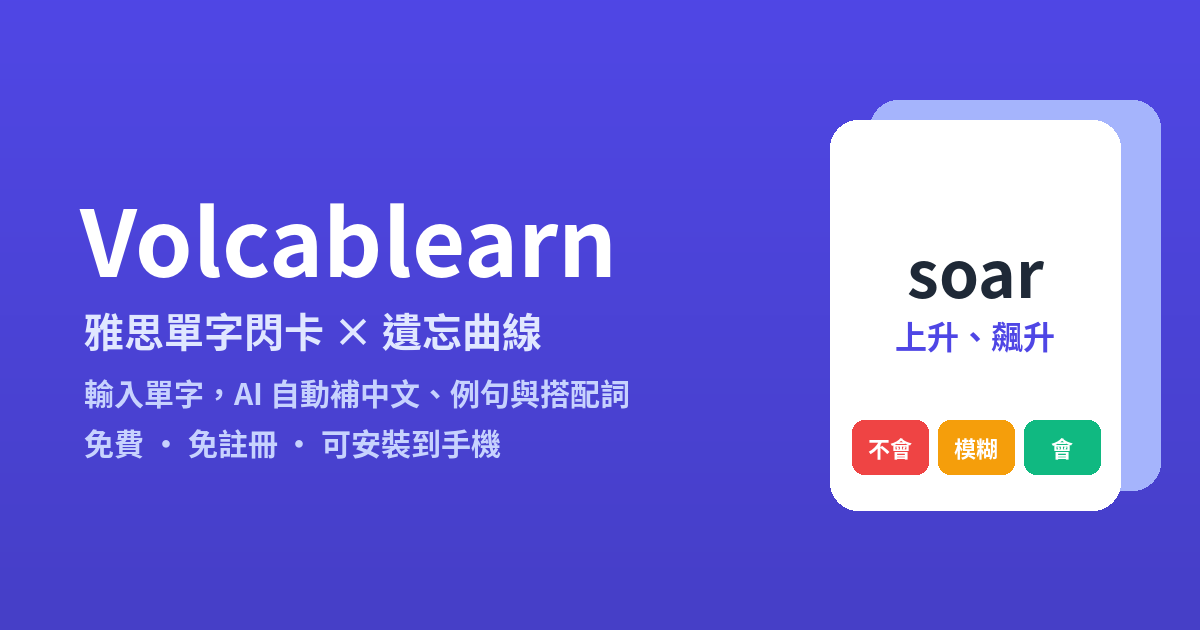
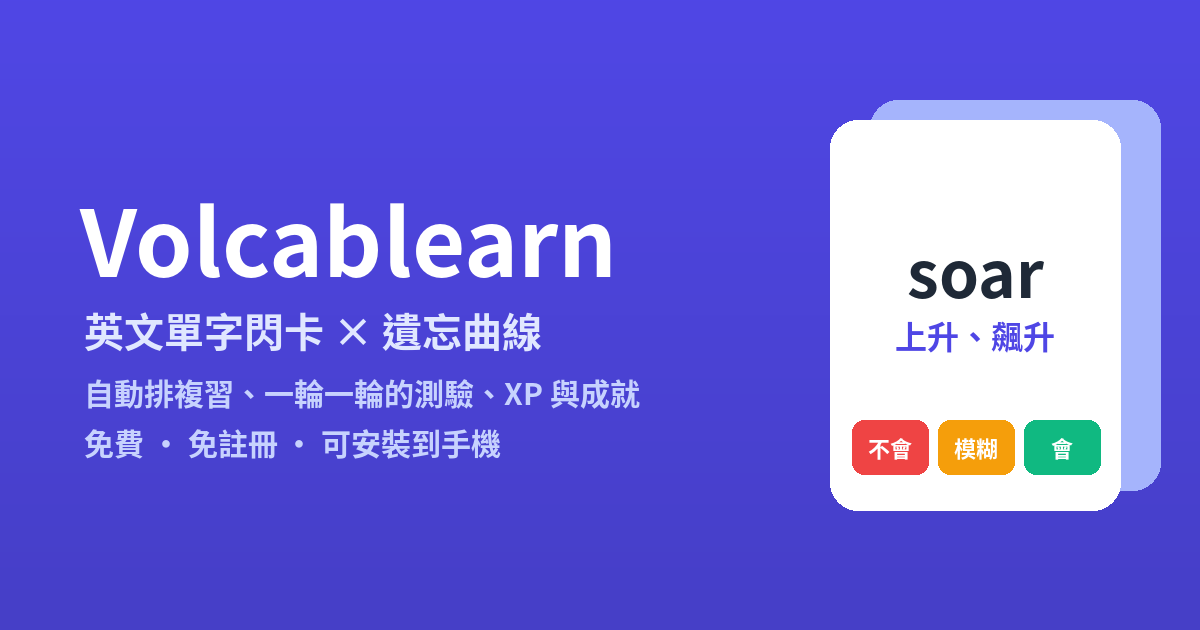
Rebrand as a general English vocabulary site
Remove IELTS-specific wording from the page, AI prompt, README,
manifest, share tags and preview image.

Claude-Session: https://claude.ai/code/session_01VhTT27U31Cj2sGtNm1B8yi

Changed region(s): [[0.0617, 0.6032, 0.555, 0.6635], [0.0617, 0.4825, 0.1542, 0.573]]

diff --git a/app.js b/app.js
@@ -179,7 +179,7 @@ function makeQ(type,w){
     if(q.sub==="syn"){
       q.answers=w.syn.flatMap(alts);
       q.also=words().filter(x=>x.grp&&x.grp===w.grp&&x.w!==w.w).map(x=>x.w);
-      q.html=`<p><span class="pill">同義字</span></p><p class="q"><span class="b">${esc(w.w)}</span> <span class="mute">(${esc(w.pos)})</span> ${esc(w.m)}</p><p class="q">寫出一個 C1+ 同義字${pending(w)}</p>`+inputLine("→ ");
+      q.html=`<p><span class="pill">同義字</span></p><p class="q"><span class="b">${esc(w.w)}</span> <span class="mute">(${esc(w.pos)})</span> ${esc(w.m)}</p><p class="q">寫出一個同義字${pending(w)}</p>`+inputLine("→ ");
       q.after=`<p class="q">可接受：${w.syn.map(s=>esc(alts(s).join(" / "))).join("、")}</p>`;
     }else if(q.sub==="der"){
       const d=pick(w.der);q.answers=[d[0]];
@@ -733,9 +733,9 @@ async function callAI(prompt){
 }
 function buildPrompt(list){
   const topics=[...new Set(words().map(w=>w.topic))];
-  return `你是幫台灣學生製作雅思（IELTS）單字閃卡的助手。請為下列每個英文單字或片語各產生一筆資料，只輸出一個 JSON 陣列，不要輸出其他文字或 Markdown。
+  return `你是幫台灣學生製作英文單字閃卡的助手。請為下列每個英文單字或片語各產生一筆資料，只輸出一個 JSON 陣列，不要輸出其他文字或 Markdown。
 每筆格式：
-{"input":"使用者輸入的原字","w":"英文原形，小寫；片語保留空格；若明顯拼錯請改正","pos":"n、v、adj、adv、ph、prefix 其中之一","m":"繁體中文主要意思，以雅思寫作與圖表報告語境為主，12 字以內","alt":"其他常見意思（繁體中文），沒有就空字串","syn":["1 到 2 個 C1 以上程度的英文同義字"],"der":[["派生字","詞性","繁體中文"]],"col":[["常見搭配詞，目標字用大括號包起來並寫出實際詞形，例如 {exceed} expectations","繁體中文"]],"ex":"一句 C1 程度、雅思報告風格的英文例句，目標字只出現一次並用大括號包起來，寫出實際詞形，例如 House prices {soared} in 2021.","topic":"從這些主題選一個：${topics.join("、")}；都不適合就自訂 2 到 4 字的繁體中文主題","note":"如果輸入不是英文單字或可能拼錯，用繁體中文簡短說明；否則空字串"}
+{"input":"使用者輸入的原字","w":"英文原形，小寫；片語保留空格；若明顯拼錯請改正","pos":"n、v、adj、adv、ph、prefix 其中之一","m":"繁體中文主要意思，選最常用的意思，12 字以內","alt":"其他常見意思（繁體中文），沒有就空字串","syn":["1 到 2 個英文同義字，優先選比原字更進階的"],"der":[["派生字","詞性","繁體中文"]],"col":[["常見搭配詞，目標字用大括號包起來並寫出實際詞形，例如 {exceed} expectations","繁體中文"]],"ex":"一句自然、常見情境的英文例句，目標字只出現一次並用大括號包起來，寫出實際詞形，例如 House prices {soared} in 2021.","topic":"從這些主題選一個：${topics.join("、")}；都不適合就自訂 2 到 4 字的繁體中文主題","note":"如果輸入不是英文單字或可能拼錯，用繁體中文簡短說明；否則空字串"}
 der 最多 3 個，col 2 個。所有中文都用繁體中文。
 單字：
 ${list.map(x=>"- "+x).join("\n")}`;

diff --git a/index.html b/index.html
@@ -4,12 +4,12 @@
 <meta charset="utf-8">
 <meta name="viewport" content="width=device-width,initial-scale=1">
 <title>Volcablearn</title>
-<meta name="description" content="用遺忘曲線背雅思單字的閃卡 App">
+<meta name="description" content="用遺忘曲線背英文單字的閃卡網站">
 <meta name="theme-color" content="#4f46e5">
 <meta property="og:type" content="website">
 <meta property="og:site_name" content="Volcablearn">
-<meta property="og:title" content="Volcablearn｜雅思單字閃卡">
-<meta property="og:description" content="用遺忘曲線背雅思單字：閃卡自評、自動排複習、一輪一輪的測驗、XP 與成就徽章，還能輸入新單字讓 AI 補中文和例句。免費、免註冊。">
+<meta property="og:title" content="Volcablearn｜英文單字閃卡">
+<meta property="og:description" content="用遺忘曲線背英文單字：閃卡自評、自動排複習、一輪一輪的測驗、XP 與成就徽章，還能輸入新單字讓 AI 補中文和例句。免費、免註冊。">
 <meta property="og:url" content="https://rjian-collab.github.io/Volcablearn/">
 <meta property="og:image" content="https://rjian-collab.github.io/Volcablearn/og-image.png">
 <meta property="og:image:width" content="1200">
@@ -18,14 +18,14 @@
 <link rel="manifest" href="manifest.webmanifest">
 <link rel="icon" type="image/png" href="icons/icon-192.png">
 <link rel="apple-touch-icon" href="icons/icon-192.png">
-<link rel="stylesheet" href="style.css?v=ac4c7252">
+<link rel="stylesheet" href="style.css?v=85d78c0c">
 </head>
 <body>
 <main id="app"></main>
 <div class="foot" id="foot"></div>
 <div class="toasts" id="toasts" aria-live="polite"></div>
 <input type="file" id="imp" accept=".json,application/json" hidden>
-<script src="data.js?v=ac4c7252"></script>
-<script src="app.js?v=ac4c7252"></script>
+<script src="data.js?v=85d78c0c"></script>
+<script src="app.js?v=85d78c0c"></script>
 </body>
 </html>

diff --git a/sw.js b/sw.js
@@ -1,7 +1,7 @@
 // 離線快取：同網站的檔案一律「先問網路（並向伺服器確認是否有新版）」，
 // 連不上網路時才用快取，所以更新後重新整理就會拿到新版。
 // AI 服務等外部網址不經過這裡。
-const CACHE = "volcablearn-ac4c7252";
+const CACHE = "volcablearn-85d78c0c";
 const FILES = ["./", "index.html", "style.css", "data.js", "app.js", "manifest.webmanifest", "icons/icon-192.png", "icons/icon-512.png"];
 
 self.addEventListener("install", e => {

diff --git a/README.md b/README.md
@@ -1,6 +1,6 @@
 # Volcablearn
 
-**用遺忘曲線背雅思單字的閃卡網站。** 免費、免註冊，打開就能用。
+**用遺忘曲線背英文單字的閃卡網站。** 免費、免註冊，打開就能用。
 
 👉 **立即使用：https://rjian-collab.github.io/Volcablearn/**
 
@@ -15,7 +15,7 @@
 - **XP、等級和成就**：答對、翻卡都能拿 XP，連對有加分；設定每日目標、累積連續天數，解鎖「一週不間斷」「完美一輪」等成就徽章。
 - **延伸詞彙一鍵加入題庫**：閃卡背面的同義字、派生詞、搭配詞旁邊有「＋」，按一下就變成新的閃卡。
 - **統計**：每天完成幾張、目前記憶率、哪些字最容易忘、連續學習天數。
-- 內建 51 個雅思 Writing Task 1 圖表題常用字，例如 soar、plummet、fluctuation、level off。
+- 內建 51 個常用單字（多為描述趨勢、比較、數據的字，例如 soar、plummet、fluctuation、level off），也可以加入自己的字。
 
 ## 怎麼用
 
